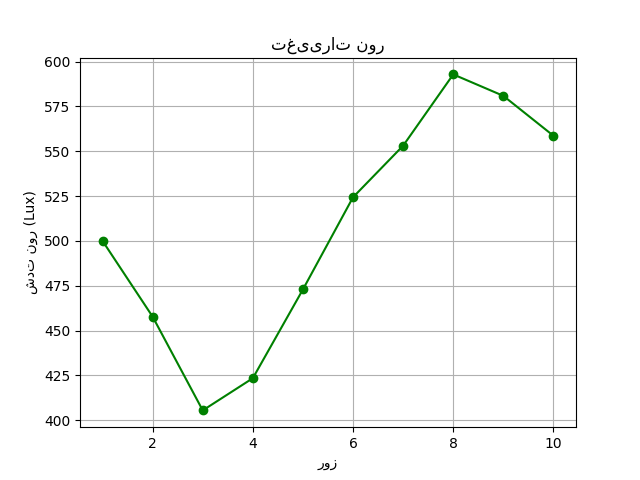
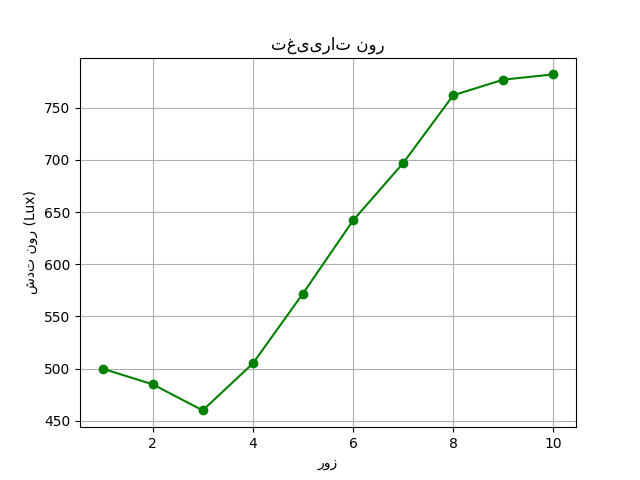
sugeo controller

diff --git a/step1/sugeno_controller.py b/step1/sugeno_controller.py
@@ -1,0 +1,81 @@
+from step1.fuzzy_controller import *
+
+TEMP_SUGENO = {
+    "StrongCool": -90,
+    "Cool": -50,
+    "NoChange": 0,
+    "Heat": 50,
+    "StrongHeat": 90,
+}
+
+HUM_SUGENO = {
+    "StrongDry": -90,
+    "Dry": -50,
+    "NoChange": 0,
+    "Hum": 50,
+    "StrongHum": 90,
+}
+
+LIGHT_SUGENO = {
+    "No": 15,
+    "Low": 35,
+    "Mid": 60,
+    "High": 90,
+}
+
+
+CO2_SUGENO = {
+    "DecHigh": -90,
+    "DecLow": -40,
+    "Zero": 0,
+    "IncLow": 40,
+    "IncHigh": 90,
+}
+
+def sugeno_defuzzify(rules, label_to_value):
+    num = 0.0
+    den = 0.0
+    for w, label in rules:
+        if w <= 0:
+            continue
+        z = label_to_value[label]
+        num += w * z
+        den += w
+    return 0.0 if den == 0 else num / den
+
+
+def temp_hum_light_co2_sugeno_controller(data):
+    weather = str(data["W"]).lower()
+    L_eff = data["L"] + data["Solar"]
+    env = compute_envrisk(data["T_in"], data["T_out"], data["Wind"], weather)
+
+    temp_fz = fuzzify_temp(data["T_in"])
+    hum_in_fz = fuzzify_hum(data["H_in"])
+    hum_out_fz = fuzzify_hum(data["H_out"])
+    light_fz = fuzzify_light(L_eff)
+    env_fz = fuzzify_env(env)
+    co2_fz = fuzzify_co2(data["CO2"])
+    density_fz = fuzzify_density(data["N"])
+
+    temp_rule = temp_rules(temp_fz, env_fz, light_fz, weather)
+    hum_rule = hum_rules(hum_in_fz, temp_fz, weather, hum_out_fz)
+    light_rule = light_rules(light_fz, density_fz, weather)
+    co2_rule = co2_rules(co2_fz, density_fz, temp_fz, weather, light_fz, env_fz)
+    energy_rules = energy_efficiency_rules(co2_fz, density_fz, light_fz, env_fz, temp_fz, hum_in_fz)
+
+    temp_rule.extend(energy_rules["temp"])
+    hum_rule.extend(energy_rules["hum"])
+    light_rule.extend(energy_rules["light"])
+    co2_rule.extend(energy_rules["co2"])
+
+    temp = sugeno_defuzzify(temp_rule, TEMP_SUGENO)
+    hum = sugeno_defuzzify(hum_rule, HUM_SUGENO)
+    light = sugeno_defuzzify(light_rule, LIGHT_SUGENO)
+    co2 = sugeno_defuzzify(co2_rule, CO2_SUGENO)
+
+    return {
+        "TempControl": float(np.clip(temp, -100, 100)),
+        "HumControl": float(np.clip(hum, -100, 100)),
+        "LightControl": float(np.clip(light, 0, 100)),
+        "CO2Control": float(np.clip(co2, -100, 100)),
+    }

diff --git a/step1/greenhouse_simulator.py b/step1/greenhouse_simulator.py
@@ -1,6 +1,8 @@
 import numpy as np
 import pandas as pd
-from fuzzy_controller import temp_hum_light_co2_controller
+from fuzzy_controller import temp_hum_light_co2_mamdani_controller
+from step1.sugeno_controller import temp_hum_light_co2_sugeno_controller
+
 
 class GreenhouseSimulator:
     T_RANGE = (10, 35)
@@ -77,7 +79,8 @@ class GreenhouseSimulator:
                 "W": row["W"]
             }
 
-            controls = temp_hum_light_co2_controller(inputs)
+            # controls = temp_hum_light_co2_mamdani_controller(inputs)
+            controls = temp_hum_light_co2_sugeno_controller(inputs)
 
             results.append({# ذخیره اطلاعات روز جاری
                 "day": row["day"],

diff --git a/step1/fuzzy_controller.py b/step1/fuzzy_controller.py
@@ -231,7 +231,7 @@ def compute_envrisk(T_in, T_out, Wind, W):
     return max(0, min(60, env))
 
 
-def temp_hum_light_co2_controller(data):
+def temp_hum_light_co2_mamdani_controller(data):
     weather = str(data["W"]).lower()
     L_eff = data["L"] + data["Solar"]
     env = compute_envrisk(data["T_in"], data["T_out"], data["Wind"], weather)
@@ -278,4 +278,4 @@ if __name__ == "__main__":
         "H_out": 70
     }
 
-    print(temp_hum_light_co2_controller(sample))
+    print(temp_hum_light_co2_mamdani_controller(sample))
